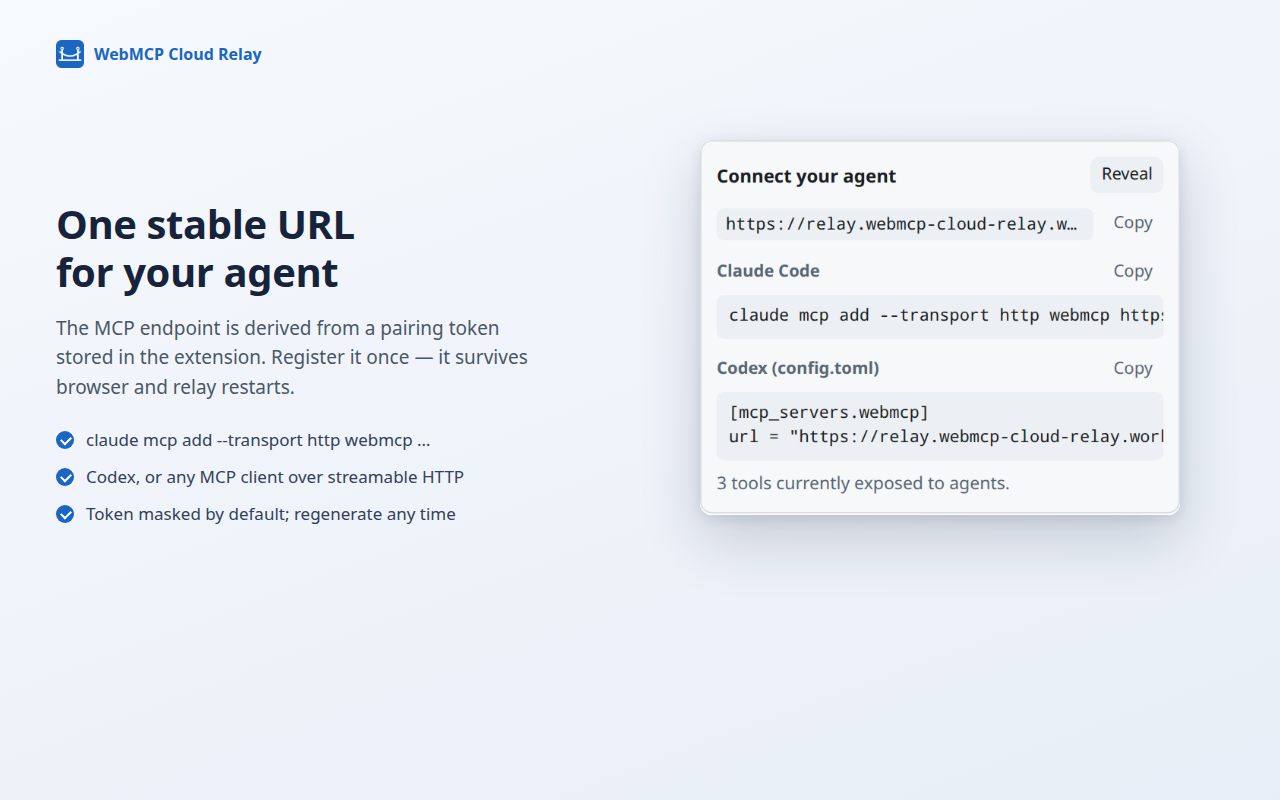
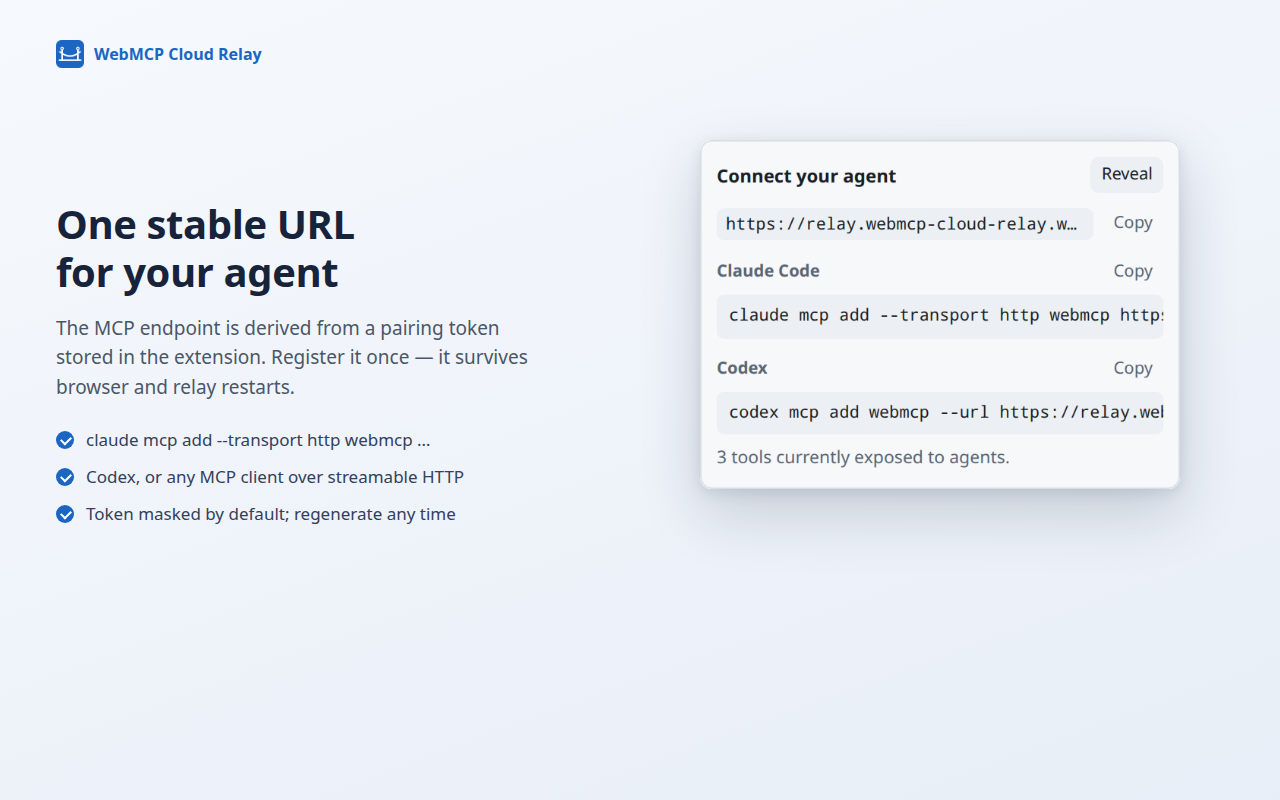
Register with Codex via its CLI instead of config.toml
codex mcp add <name> --url <url> registers a streamable HTTP server
directly, so the popup and README no longer hand out a config.toml
snippet. Store screenshots re-captured accordingly.

Claude-Session: https://claude.ai/code/session_01TBqb5jGgBZ4DoC4tDxsDDF

Changed region(s): [[0.5312, 0.5, 0.9375, 0.6562], [0.5938, 0.4375, 0.6875, 0.4688]]

diff --git a/packages/extension/src/popup.ts b/packages/extension/src/popup.ts
@@ -276,9 +276,9 @@ function renderAgent(state: BridgeState): void {
   );
   root.append(
     snippet(
-      "Codex (config.toml)",
-      `[mcp_servers.webmcp]\nurl = "${mcpUrl}"`,
-      `[mcp_servers.webmcp]\nurl = "${shown}"`,
+      "Codex",
+      `codex mcp add webmcp --url ${mcpUrl}`,
+      `codex mcp add webmcp --url ${shown}`,
     ),
   );
 

diff --git a/README.md b/README.md
@@ -58,11 +58,10 @@ Claude Code:
 claude mcp add --transport http webmcp <mcpUrl>
 ```
 
-Codex (`~/.codex/config.toml`):
+Codex:
 
-```toml
-[mcp_servers.webmcp]
-url = "<mcpUrl>"
+```sh
+codex mcp add webmcp --url <mcpUrl>
 ```
 
 **4. Connect a tab.** Open a page that registers WebMCP tools, click the extension icon, and press **Connect this tab**. The badge turns green, and the tools appear in your agent (existing sessions pick them up via `tools/list_changed`).
